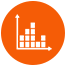
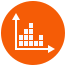
>יקוני נראות

Changed region(s): [[0.1818, 0.1818, 0.8485, 0.8182]]

diff --git a/components/mainMenu/mainMenu.css b/components/mainMenu/mainMenu.css
@@ -109,10 +109,11 @@ h3 {
 
 .features-title {
     text-align: right;
-    padding-right: 14px;
-    height: 100%;
-    display: table;
-    padding-left: 14px;
+padding-right: 14px;
+height: 100%;
+display: table;
+padding-left: 14px;
+margin-right: 90px;
 }
 
 .inner-features-title {
@@ -167,9 +168,13 @@ h3 {
 }
 
 .current-feature-components img {
-    width: 90px;
-    height: 100%;
-    float: right!important;
+   width: 90px;
+height: auto;
+float: right!important;
+position: absolute;
+top: 0;
+bottom: 0;
+margin: auto;
 }
 
 

diff --git a/components/header/header.css b/components/header/header.css
@@ -179,6 +179,7 @@ a.list-group-item.active, a.list-group-item.active:focus, a.list-group-item.acti
 .out-list-group.list-group {
     padding-left: 0px;
     padding-right: 0px;
+    margin-bottom: 0;
 }
 
 .inner-list-group {
